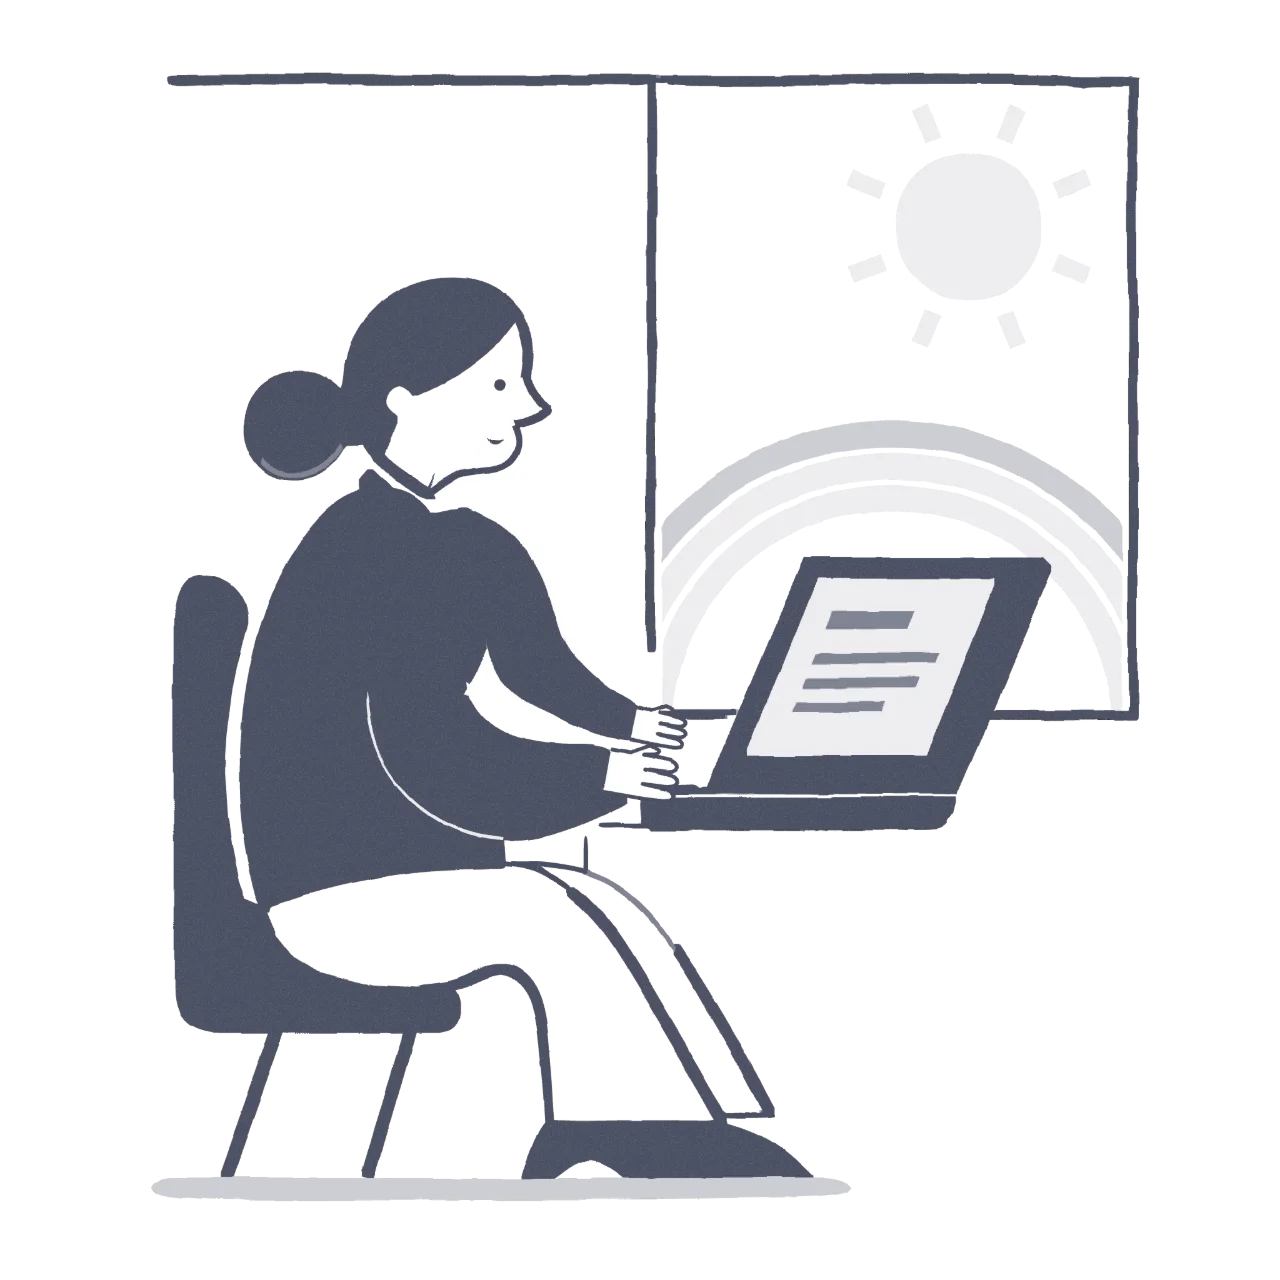
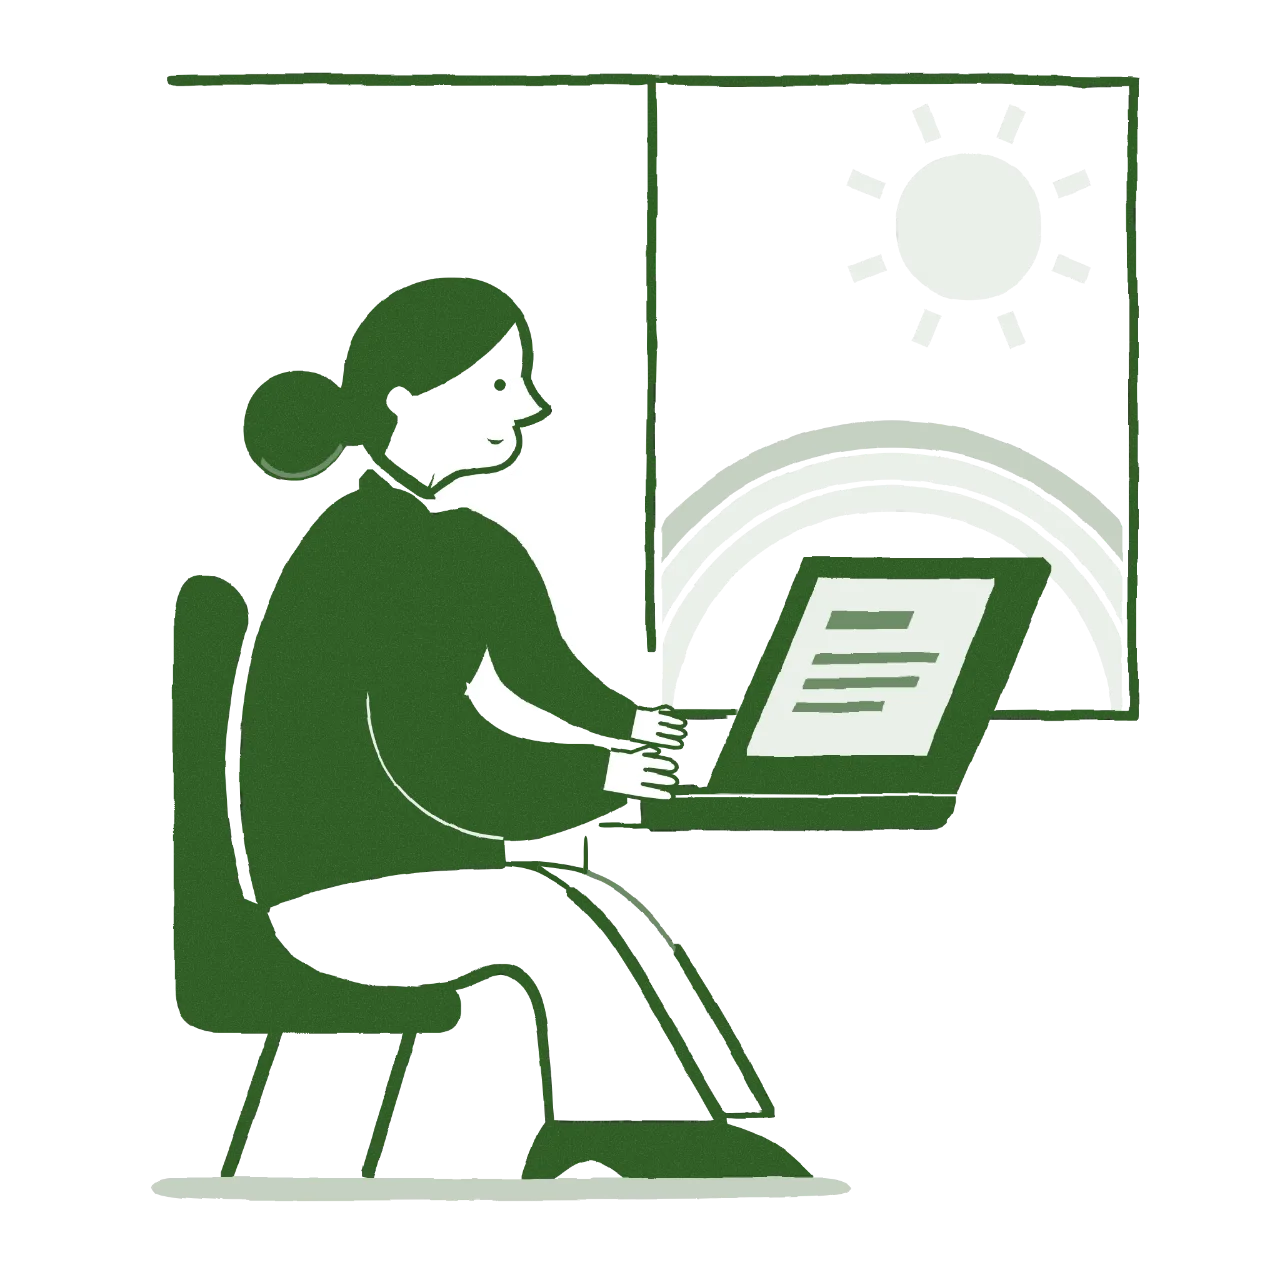
Bring back Sarah as a Closing act before Thank you
The talk now ends on a person: a Closing act whose opener carries
Simon's "before we let you leave" line, then Back to Sarah as her
illustration alone, then Thank you. The slide has no text; the spoken
close is in its notes, with Matt taking the Rose line.

The act gets its own colour (a green, same lightness and chroma as the
others), so Sarah is re-tinted for it. Printing now shows her drawing
whole, rainbow included, and the print check's notes floor moves up
with the scene.

🤖 Generated with [Claude Code](https://claude.com/claude-code)

Changed region(s): [[0.125, 0.0312, 0.9062, 0.9375]]

diff --git a/index.html b/index.html
@@ -1359,6 +1359,65 @@
 			</div>
 		</section>
 
+		<section data-act="closing" class="act-panel">
+			<div class="act-panel-inner">
+				<header class="act-opener">
+					<h1 class="act-title">Closing</h1>
+					<aside class="notes" hidden>
+						<p class="speaker" data-speaker="simon">Simon</p>
+						<p>
+							Before we let you leave, we wanted to end with a person, not a paradigm&hellip;
+						</p>
+						<ul class="notes-bullets">
+							<li>Before we let you leave: end with a person, not a paradigm</li>
+						</ul>
+					</aside>
+				</header>
+
+				<!-- the talk's last picture, on its own: the words are spoken, so the
+				     audience leaves with the person, not a slide of text -->
+				<section data-scene="back-to-sarah">
+					<h2 class="visually-hidden">Back to Sarah</h2>
+					<div class="persona">
+						<div class="portrait-ground">
+							<img class="back-to-sarah-illustration persona-portrait" src="media/personas/back-to-sarah.webp"
+								srcset="media/personas/back-to-sarah-768.webp 768w, media/personas/back-to-sarah-1280.webp 1280w, media/personas/back-to-sarah.webp 2048w"
+								sizes="(max-width: 699px) 90vw, min(70vw, 100vh)"
+								alt="Illustration of Sarah typing at her laptop with both hands, the sun and a rainbow out of the window behind her and one calm page of large text on her screen"
+								width="2048" height="2048" />
+						</div>
+					</div>
+					<aside class="notes" hidden>
+						<p class="speaker" data-speaker="simon" data-time="19:00">Simon</p>
+						<p>
+							Remember Sarah?
+						</p>
+						<p>
+							With a UI that takes the empathy input into account, she doesn’t need to spend most of her attention
+							fighting brittle adaptations. Instead, she can focus on the thing she came for: learning how to sail.
+						</p>
+						<p>
+							And isn’t that what technology is for: to support people prosper
+						</p>
+						<ul class="notes-bullets">
+							<li>Remember Sarah?</li>
+							<li>A UI that takes the empathy input into account: no more spending most of her attention fighting brittle adaptations</li>
+							<li>Instead she can focus on the thing she came for: learning how to sail</li>
+							<li>Isn’t that what technology is for: to support people prosper</li>
+						</ul>
+						<p class="speaker" data-speaker="matt">Matt</p>
+						<p>
+							Rose, too, wouldn’t have to fear that looking up knitting patterns for her hobby could leave her in bed
+							for three days.
+						</p>
+						<ul class="notes-bullets">
+							<li>Rose, too: no fear that looking up knitting patterns leaves her in bed for three days</li>
+						</ul>
+					</aside>
+				</section>
+			</div>
+		</section>
+
 		<section data-act="thank-you" class="act-panel">
 			<div class="act-panel-inner">
 				<header class="act-opener">

diff --git a/css/talk.css b/css/talk.css
@@ -157,6 +157,7 @@ main section[data-scene] {
 .act-panel[data-act='limits-of-adaptability'] { --fade-angle: 38deg; --fade-to: var(--ramp-deep); --fade-hold: 25%; }
 .act-panel[data-act='empathy-is-our-point'] { --fade-angle: 0deg; --fade-to: var(--ramp-deep); --fade-hold: 35%; }
 .act-panel[data-act='launching-is-creating'] { --fade-angle: 26deg; --fade-to: var(--ramp-accent); --fade-hold: 30%; }
+.act-panel[data-act='closing'] { --fade-angle: 18deg; --fade-to: var(--ramp-deep); --fade-hold: 25%; }
 .act-panel[data-act='thank-you'] { --fade-angle: 12deg; --fade-to: var(--ramp-deep); --fade-hold: 20%; }
 
 /* act openers blend three colours, as gggrain's grounds do: the act's ink
@@ -179,7 +180,8 @@ main section[data-scene] {
 .act-panel[data-act='limits-of-adaptability'] { --act-prev: var(--act-user-research); }
 .act-panel[data-act='empathy-is-our-point'] { --act-prev: var(--act-limits-of-adaptability); }
 .act-panel[data-act='launching-is-creating'] { --act-prev: var(--act-empathy-is-our-point); }
-.act-panel[data-act='thank-you'] { --act-prev: var(--act-launching-is-creating); }
+.act-panel[data-act='closing'] { --act-prev: var(--act-launching-is-creating); }
+.act-panel[data-act='thank-you'] { --act-prev: var(--act-closing); }
 
 /* the chapter number, top right on each act opener: the act's place in the
    talk (as in the notes drawer's index, so the first act, which opens on the
@@ -1273,10 +1275,10 @@ main section[data-scene='the-economics-just-changed'] > h2 {
 		font-size: calc(42 * var(--u));
 	}
 
-	/* ...but Back to Sarah has no quote: its two lines are one statement,
-	   short enough for the column, so the second keeps the body size */
-	main section[data-scene='back-to-sarah'] .persona > p {
-		font-size: calc(55 * var(--u));
+	/* ...but Back to Sarah is her illustration alone, the talk's last
+	   picture: it takes the whole width, centred */
+	main section[data-scene='back-to-sarah'] .persona > .portrait-ground {
+		grid-column: 1 / -1;
 	}
 
 	.persona {
@@ -1310,6 +1312,14 @@ main section[data-scene='the-economics-just-changed'] > h2 {
 
 	.persona .persona-portrait {
 		height: 100%;
+	}
+}
+
+/* Back to Sarah on a phone: her illustration alone fills the column, not the
+   half-width an illustration beside text gets */
+@media (max-width: 699px) {
+	main section[data-scene='back-to-sarah'] .persona > .portrait-ground {
+		width: 100%;
 	}
 }
 

diff --git a/js/site.js b/js/site.js
@@ -711,6 +711,8 @@ if (rotatorList && !lite) rotatorLoop(rotatorList);
 // it's in view; leaving sets it back, to play again on return. Only transform
 // and opacity move (GSAP sets an SVG part's origin from its own box, so it
 // needs no transform-box). Reduced motion and the lite deck keep the still WebP.
+// Printed, it shows whole (beforePrint): the rainbow out, the observer standing down.
+let showBackToSarahWhole = null;
 const backToSarahArt = document.querySelector('img.back-to-sarah-illustration');
 if (backToSarahArt && !lite && !window.matchMedia('(prefers-reduced-motion: reduce)').matches) {
 	const svg = inlineArt(backToSarahArt, backToSarahSvg);
@@ -723,7 +725,12 @@ if (backToSarahArt && !lite && !window.matchMedia('(prefers-reduced-motion: redu
 		.fromTo(bands, { autoAlpha: 0 }, { autoAlpha: 1, duration: 1.2, ease: 'sine.inOut', stagger: 0.4 }, 0.6);
 	// the rays are eightfold, so an eighth of a turn loops without a seam
 	const turn = gsap.to(rays, { rotation: 45, transformOrigin: '50% 50%', duration: 40, ease: 'none', repeat: -1, paused: true });
+	showBackToSarahWhole = () => {
+		arrive.progress(1);
+		turn.pause();
+	};
 	new IntersectionObserver(([entry]) => {
+		if (printedFrom) return;
 		if (entry.isIntersecting) {
 			arrive.restart(true);
 			turn.play();
@@ -840,6 +847,7 @@ function beforePrint() {
 	navTween = null;
 	closeSpotlight();
 	mm?.revert();
+	showBackToSarahWhole?.();
 	movedNotes = [...document.querySelectorAll('main :is(section[data-scene], .act-opener) > aside.notes')].map((notes) => {
 		const place = { notes, parent: notes.parentElement, next: notes.nextSibling };
 		place.parent.after(notes);

diff --git a/css/tokens.css b/css/tokens.css
@@ -138,6 +138,7 @@
 	--act-limits-of-adaptability: #7e3633;
 	--act-empathy-is-our-point: #006061;
 	--act-launching-is-creating: #764002;
+	--act-closing: #2f5c24;
 	--act-thank-you: #4a4f63;
 
 	/* the illustration ramp: how much of the act colour each step keeps
@@ -169,5 +170,7 @@ body[data-current-act='limits-of-adaptability'] { --act-color: var(--act-limits-
 body[data-current-act='empathy-is-our-point'] { --act-color: var(--act-empathy-is-our-point); }
 .act-panel[data-act='launching-is-creating'],
 body[data-current-act='launching-is-creating'] { --act-color: var(--act-launching-is-creating); }
+.act-panel[data-act='closing'],
+body[data-current-act='closing'] { --act-color: var(--act-closing); }
 .act-panel[data-act='thank-you'],
 body[data-current-act='thank-you'] { --act-color: var(--act-thank-you); }
